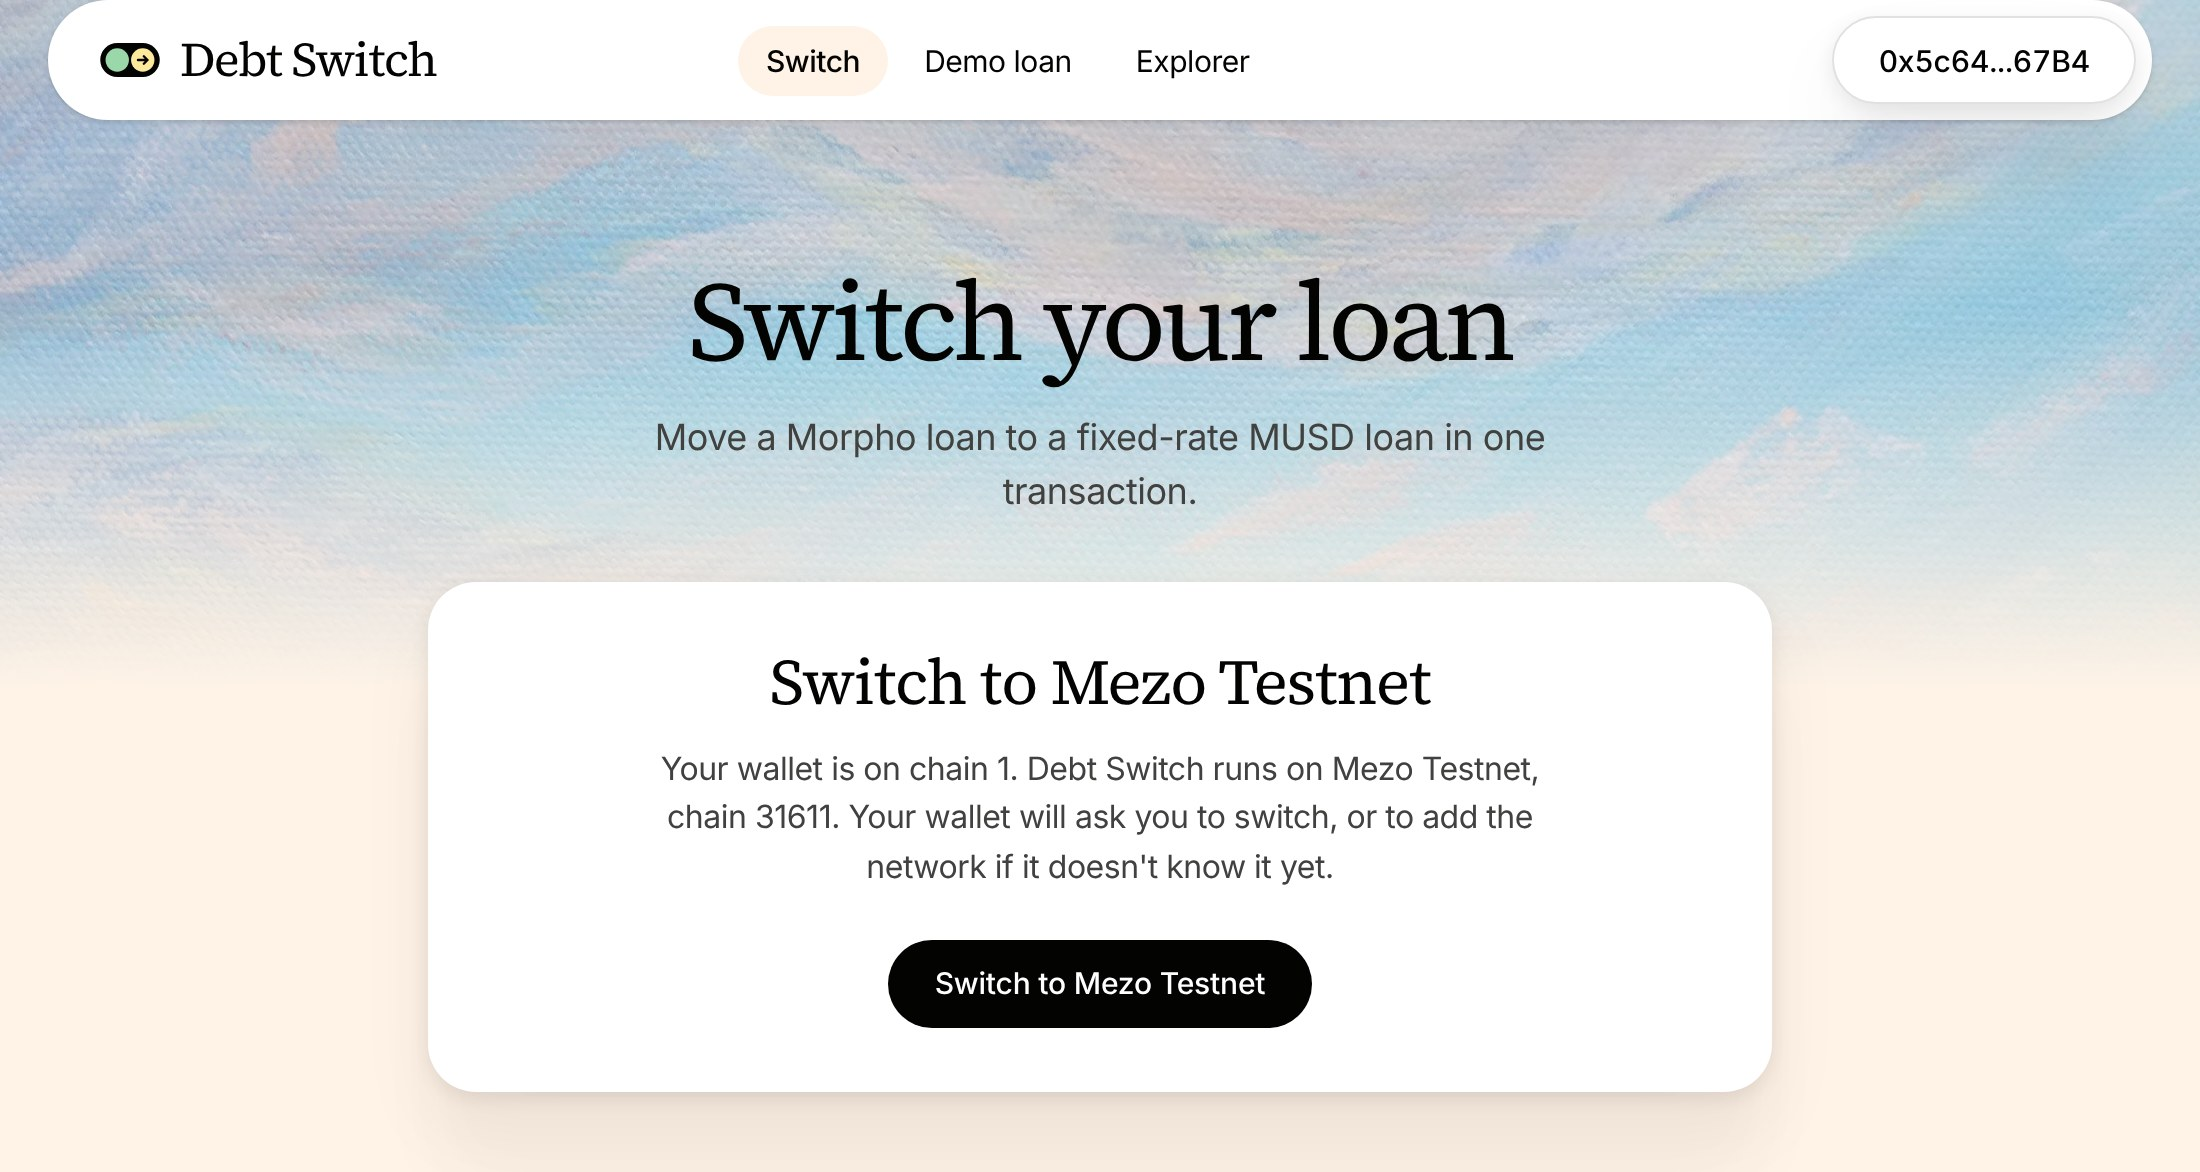
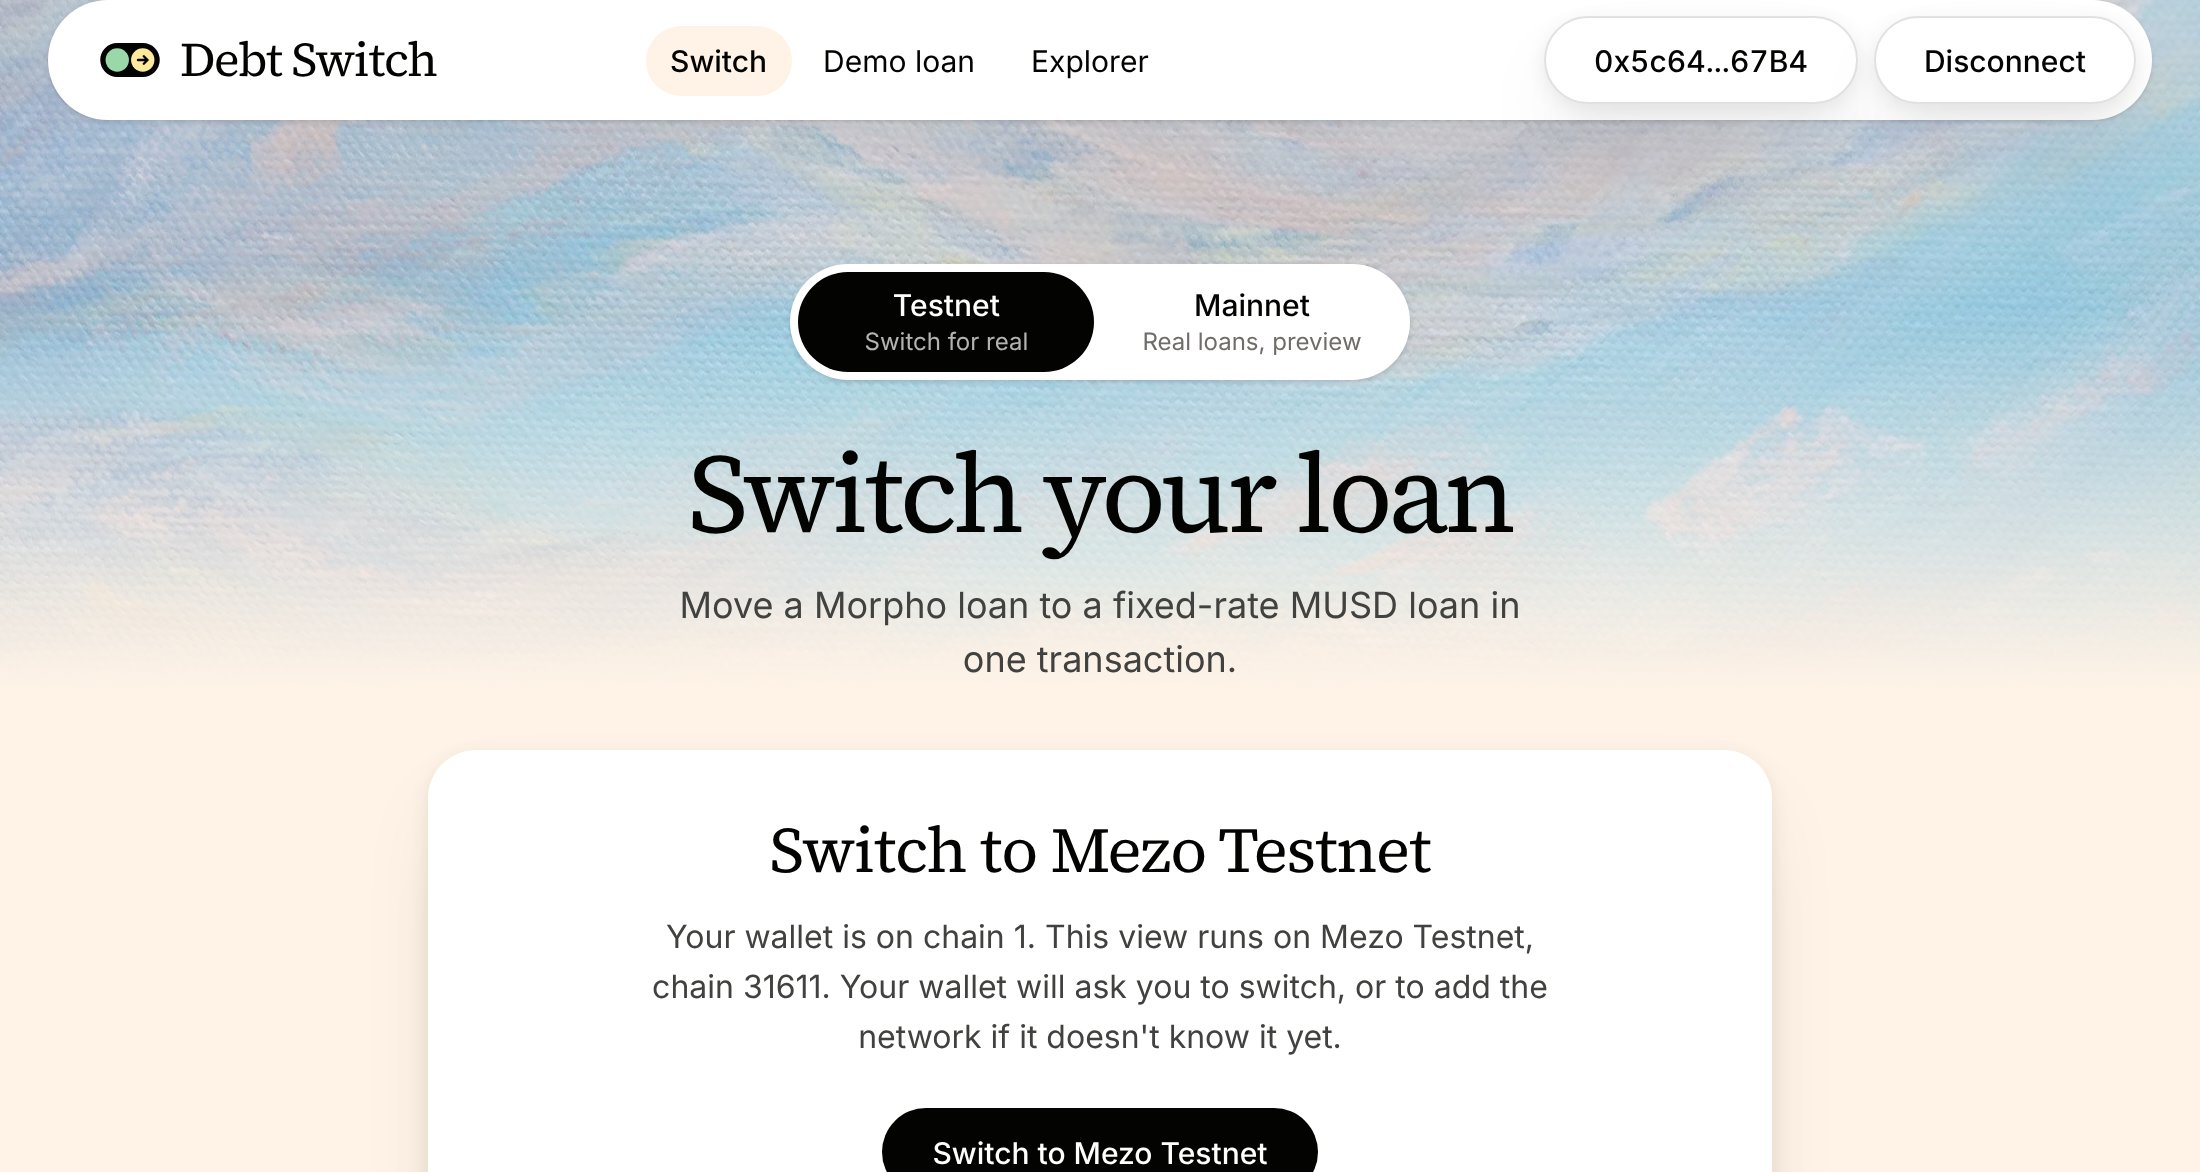
Refresh app screenshots with the network switch and add the mainnet preview

diff --git a/README.md b/README.md
@@ -161,15 +161,21 @@ Full addresses are in [`deployments/31611.json`](deployments/31611.json).
 
 ![Debt Switch app, Connect your wallet screen, with Connect wallet and See a real switched loan buttons](docs/screenshots/1-connect.jpg)
 
-The app at `/app` opens on one action. Its nav holds only app links (Switch, Demo loan, Explorer) and the wallet button. Connecting only lets the app read your loans, and nothing moves until you sign. It works with any injected browser wallet (MetaMask, Rabby), with no account system and no backend. If your wallet is already connected, the app reconnects on load without asking again.
+The app at `/app` opens with a **Testnet / Mainnet** switch and one action. Its nav holds only app links (Switch, Demo loan, Explorer) and the wallet button. Connecting only lets the app read your loans, and nothing moves until you sign. It works with any injected browser wallet (MetaMask, Rabby), with no account system and no backend. If your wallet is already connected, the app reconnects on load without asking again.
 
-### 2. Read-only view, no wallet needed
+### 2. Mainnet: a real loan, priced live
+
+![Debt Switch Mainnet tab showing a real Mezo mainnet Morpho loan of 2,218.87 mUSDC and the switch preview priced from the live mainnet pool](docs/screenshots/6-mainnet-preview.jpg)
+
+The **Mainnet** tab reads Mezo mainnet: Mezo's own Morpho BTC/mUSDC market, TroveManager, PriceFeed and the MUSD/mUSDC pool. [This link](https://debtswitch.midelabs.xyz/app/?network=mainnet&address=0x965c18b6ac7d233c00c93c7c0039bef6a6035d26) opens a real mainnet borrower who owes 2,218.87 mUSDC. The preview sizes the trove and prices the swap at the live mainnet rate. It also refuses this loan with the reason: its 0.045 BTC would back the new trove at 107.3%, below Mezo's 110%. Sending stays off on mainnet until the audit.
+
+### 3. Read-only view, no wallet needed
 
 ![Debt Switch read-only view of the demo borrower: a Read-only label, a marigold card explaining the switch, and the live loan cards](docs/screenshots/5-readonly-demo.jpg)
 
 Add `?address=` and any testnet address to the app URL to see that wallet's live positions without connecting. [This link](https://debtswitch.midelabs.xyz/app/?address=0x5c64aCAa8AB6AE0b9386afF5339C23CE54E067B4) opens the demo borrower. A marigold "Read-only" label marks the view. The marigold card explains how Mezo's 1,800 MUSD minimum and the unbalanced testnet pool shaped the switch. Below it, the loan cards show the live result from Mezo's TroveManager. The connect screen and the nav's "Demo loan" link both open this, so anyone can see the product working without a funded wallet.
 
-### 3. After the switch, in the borrower's own wallet
+### 4. After the switch, in the borrower's own wallet
 
 ![Debt Switch after a switch: Your loan is now fixed at 1.00%, the Morpho loan is gone and a 2,000 MUSD loan is open at 1.00% fixed](docs/screenshots/2-switched.jpg)
 
@@ -185,7 +191,7 @@ While a switch runs, a five-step tracker (Approve, Sign, Check, Confirm, Waiting
 
 Before the switch, the same screen shows a preview built entirely from chain reads: a Now and After strip, then what you pay off on Morpho, the Bitcoin that moves, your new loan, the one-time fee, the 200 MUSD reserve, the live swap and the lowest amount you'll accept, what comes back to your wallet, the new collateral ratio and the liquidation price. Marigold notes appear when the 1,800 MUSD minimum sizes the loan up or when the pool's live rate is far from 1:1. If the switch can't go through, a "Why not" box explains it in plain words and replaces the button.
 
-### 4. The switch on the explorer
+### 5. The switch on the explorer
 
 ![Mezo testnet explorer, token transfers for the switch transaction](docs/screenshots/3-explorer-transfers.png)
 
@@ -347,7 +353,7 @@ All four of our contracts are source-verified on the Mezo testnet explorer.
 |---|---|---|
 | 1. Multi-pool routing | Route the MUSD-to-mUSDC leg across several Mezo pools (MUSD/mUSDC, MUSD/mUSDT, MUSD/BTC) so larger loans clear mainnet liquidity | December 2026 |
 | 2. Reverse switch live | `troveToMorpho` is built and fork-tested. Ship it in a redeployed router and in the app, once the testnet market has the liquidity it needs | December 2026 |
-| 3. Mainnet | Already passing on a mainnet fork (`test/MainnetFork.t.sol`). Audit, then deploy against Mezo's own mainnet Morpho BTC/mUSDC market (`0x6f88e79e...33db` on Morpho `0x5658...a311`), with partial switches | Q1 2027 |
+| 3. Mainnet launch | Audit the router, deploy it against Mezo's own Morpho BTC/mUSDC market (`0x6f88e79e...33db` on Morpho `0x5658...a311`) and turn on sending in the app's Mainnet tab, with partial switches. Both switches already pass against these contracts on a mainnet fork. | Q1 2027 |
 
 ## How Debt Switch maps to the judging criteria
 
